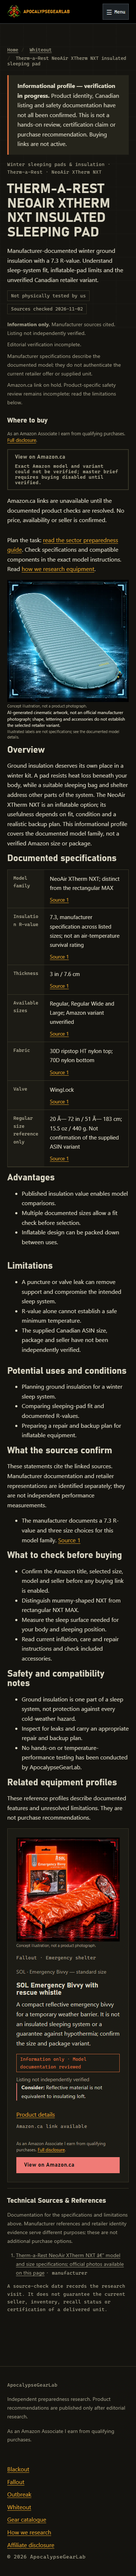
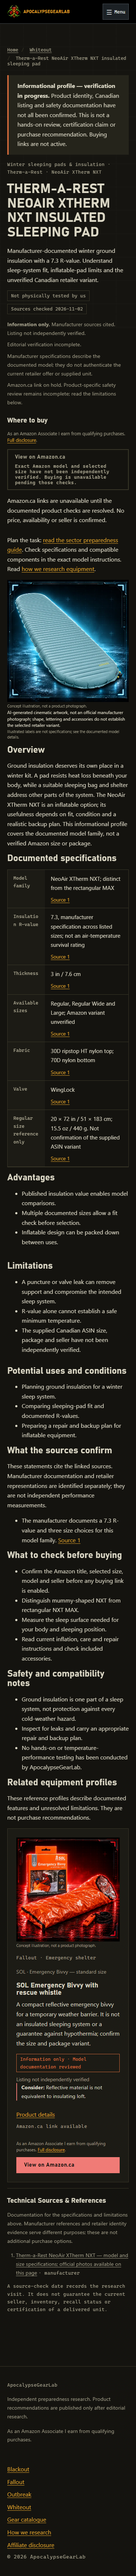
fix: preserve product typography and clear buying status

Changed region(s): [[0.352, 0.3428, 0.704, 0.4674], [0.792, 0.3428, 0.8213, 0.3739], [0.7333, 0.3428, 0.7627, 0.3739]]

diff --git a/tests/four-universes.test.ts b/tests/four-universes.test.ts
@@ -25,6 +25,8 @@ test('WHITEOUT identity, held ASIN and no commercial schema survive integration'
  assert.deepEqual(UNIVERSE_IDS,['blackout','fallout','outbreak','whiteout']);
  assert.equal(categoryUniverse('winter-sleep-systems'),'whiteout');
  const data=productSchema.parse(JSON.parse(readFileSync('src/data/products/therm-a-rest-neoair-xtherm-nxt-review.json','utf8')));
+ assert.doesNotMatch(JSON.stringify(data),/Ã|Â|â€/,'New profile must retain valid English typography');
+ assert.ok(data.specs.some(spec=>spec.value.includes('20 × 72 in / 51 × 183 cm')));
  const p={id:'therm-a-rest-neoair-xtherm-nxt-review',data}as Product;
  assert.equal(data.links.amazonCa.asin,'B0CS4P19QQ');assert.equal(data.links.amazonCa.url,'https://www.amazon.ca/dp/B0CS4P19QQ?tag=apocalypsegear-20');
  assert.equal(data.research?.affiliateReview?.decision,'hold');assert.equal(data.research?.listingVerified,false);assert.equal(data.research?.publicationApproved,false);

diff --git a/docs/four-universes-cinematic.md b/docs/four-universes-cinematic.md
@@ -17,17 +17,17 @@ The 19 supplied WebPs were already optimized. They are copied byte-for-byte, wit
 
 For each of `blackout`, `fallout`, `outbreak`, `whiteout`:
 
-- Source/delivery: `public/images/universes/{universe}-survival-hero-{768,1280,1600}.webp` â†’ `/images/universes/...`
-- Social image: `public/images/universes/{universe}-survival-og.webp` â†’ `/images/universes/...`, measured 1200Ã—630.
+- Source/delivery: `public/images/universes/{universe}-survival-hero-{768,1280,1600}.webp` → `/images/universes/...`
+- Social image: `public/images/universes/{universe}-survival-og.webp` → `/images/universes/...`, measured 1200×630.
 
-| Universe | 768 px | 1280 px | 1600 px | OG 1200Ã—630 |
+| Universe | 768 px | 1280 px | 1600 px | OG 1200×630 |
 | --- | ---: | ---: | ---: | ---: |
 | Blackout | 48,060 B | 120,916 B | 168,356 B | 119,446 B |
 | Fallout | 91,480 B | 219,434 B | 304,400 B | 209,884 B |
 | Outbreak | 59,218 B | 136,708 B | 183,984 B | 130,912 B |
 | Whiteout | 78,242 B | 187,670 B | 256,276 B | 187,826 B |
 
-Product sources: `assets/media/whiteout/therm-a-rest-neoair-xtherm-nxt-whiteout{-640,-960,}.webp`, delivered through the existing static media-route convention at `/images/whiteout/`. Measured sizes are 640Ã—640 (63,646 B), 960Ã—960 (127,324 B), and **1254Ã—1254** (205,616 B). The supplied file named `-1280` actually measures 1254; the full filename is the requested `therm-a-rest-neoair-xtherm-nxt-whiteout.webp`, and its descriptor uses 1254w.
+Product sources: `assets/media/whiteout/therm-a-rest-neoair-xtherm-nxt-whiteout{-640,-960,}.webp`, delivered through the existing static media-route convention at `/images/whiteout/`. Measured sizes are 640×640 (63,646 B), 960×960 (127,324 B), and **1254×1254** (205,616 B). The supplied file named `-1280` actually measures 1254; the full filename is the requested `therm-a-rest-neoair-xtherm-nxt-whiteout.webp`, and its descriptor uses 1254w.
 
 `src/data/media/whiteout-manifest.json` and `assets/media/whiteout-image-manifest.csv` record the new product mapping separately. `docs/qa/four-universes/assets.json` records all input names, final paths, dimensions, byte counts and SHA-256 hashes. Heroes use responsive widths, explicit dimensions, eager loading and high fetch priority; homepage previews and product cards lazy-load.
 
@@ -35,9 +35,9 @@ Product sources: `assets/media/whiteout/therm-a-rest-neoair-xtherm-nxt-whiteout{
 
 The owner supplied ASIN `B0CS4P19QQ` and `https://www.amazon.ca/dp/B0CS4P19QQ?tag=apocalypsegear-20`. On November 2, 2026, the web reader could not access Amazon.ca. Search results are insufficient to verify the exact selected size, variant, seller or delivered package. The stored URL retains the exact supplied tracking ID, but **no rendered link to this ASIN is enabled anywhere**. The explicit product-level decision is `hold`.
 
-[Therm-a-Restâ€™s official model page](https://cascadedesigns.com/products/neoair-xtherm-nxt-sleeping-pad) documents the NXT family, 7.3 R-value and size choices. These are manufacturer specifications, not measurements by ApocalypseGearLab or confirmation of the Amazon variant. Size-dependent values are labelled as Regular-size reference information. R-value is not presented as a minimum safe air temperature. The profile explains system fit, puncture/valve limits, moisture management and contingency planning without inventing ratings, prices, availability or testing.
+[Therm-a-Rest’s official model page](https://cascadedesigns.com/products/neoair-xtherm-nxt-sleeping-pad) documents the NXT family, 7.3 R-value and size choices. These are manufacturer specifications, not measurements by ApocalypseGearLab or confirmation of the Amazon variant. Size-dependent values are labelled as Regular-size reference information. R-value is not presented as a minimum safe air temperature. The profile explains system fit, puncture/valve limits, moisture management and contingency planning without inventing ratings, prices, availability or testing.
 
-The artwork is explicitly labelled AI-generated concept imagery, not an official manufacturer photograph. The references link to the manufacturerâ€™s official photographs; those photographs are not copied into the repository without reuse authorization.
+The artwork is explicitly labelled AI-generated concept imagery, not an official manufacturer photograph. The references link to the manufacturer’s official photographs; those photographs are not copied into the repository without reuse authorization.
 
 The record remains `draft`, `informational`, `not-tested`, `listingVerified: false`, `publicationApproved: false`, `safetyStatus: pending`, `lastVerified: null`. It uses the existing intentional `noindex, nofollow` and sitemap exclusion. Product/Offer/Review/rating schema is withheld under the unchanged release policy; product breadcrumbs remain. No approval flags were set to satisfy the new-page request.
 
